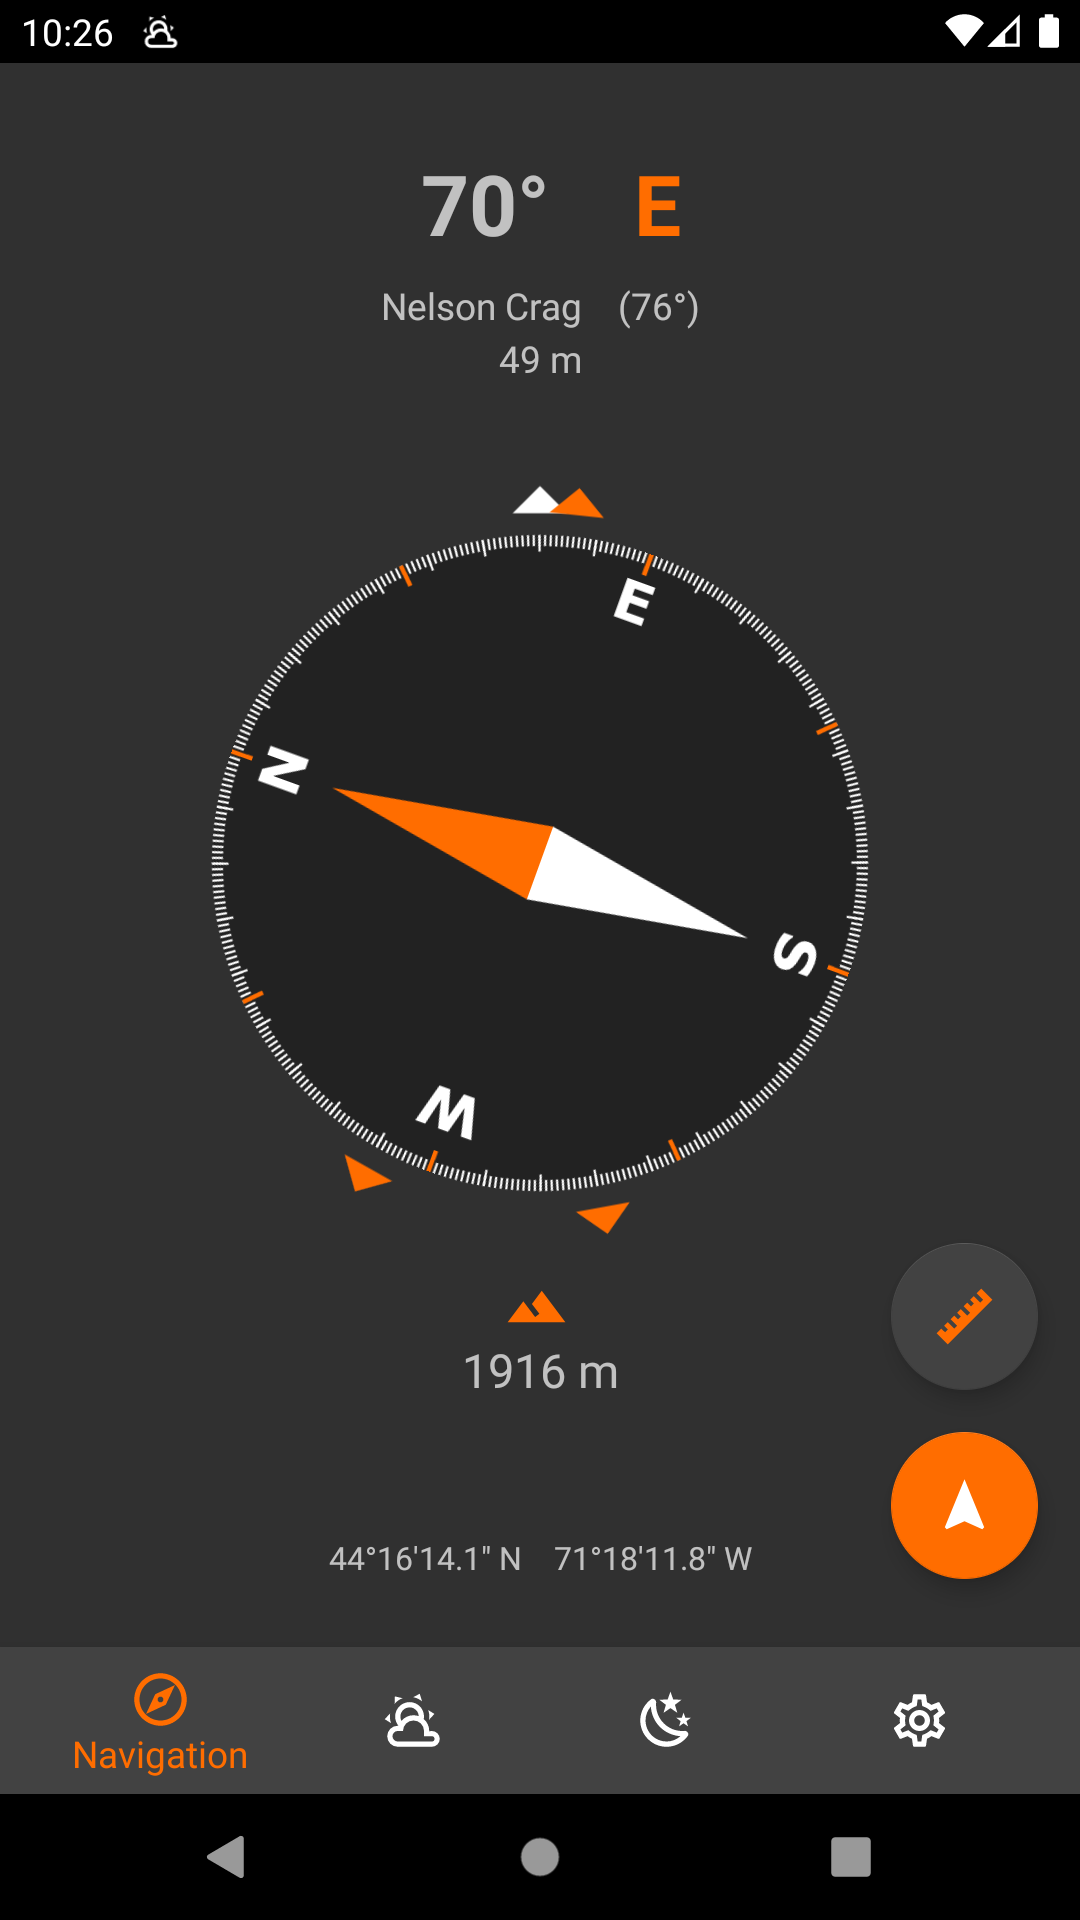
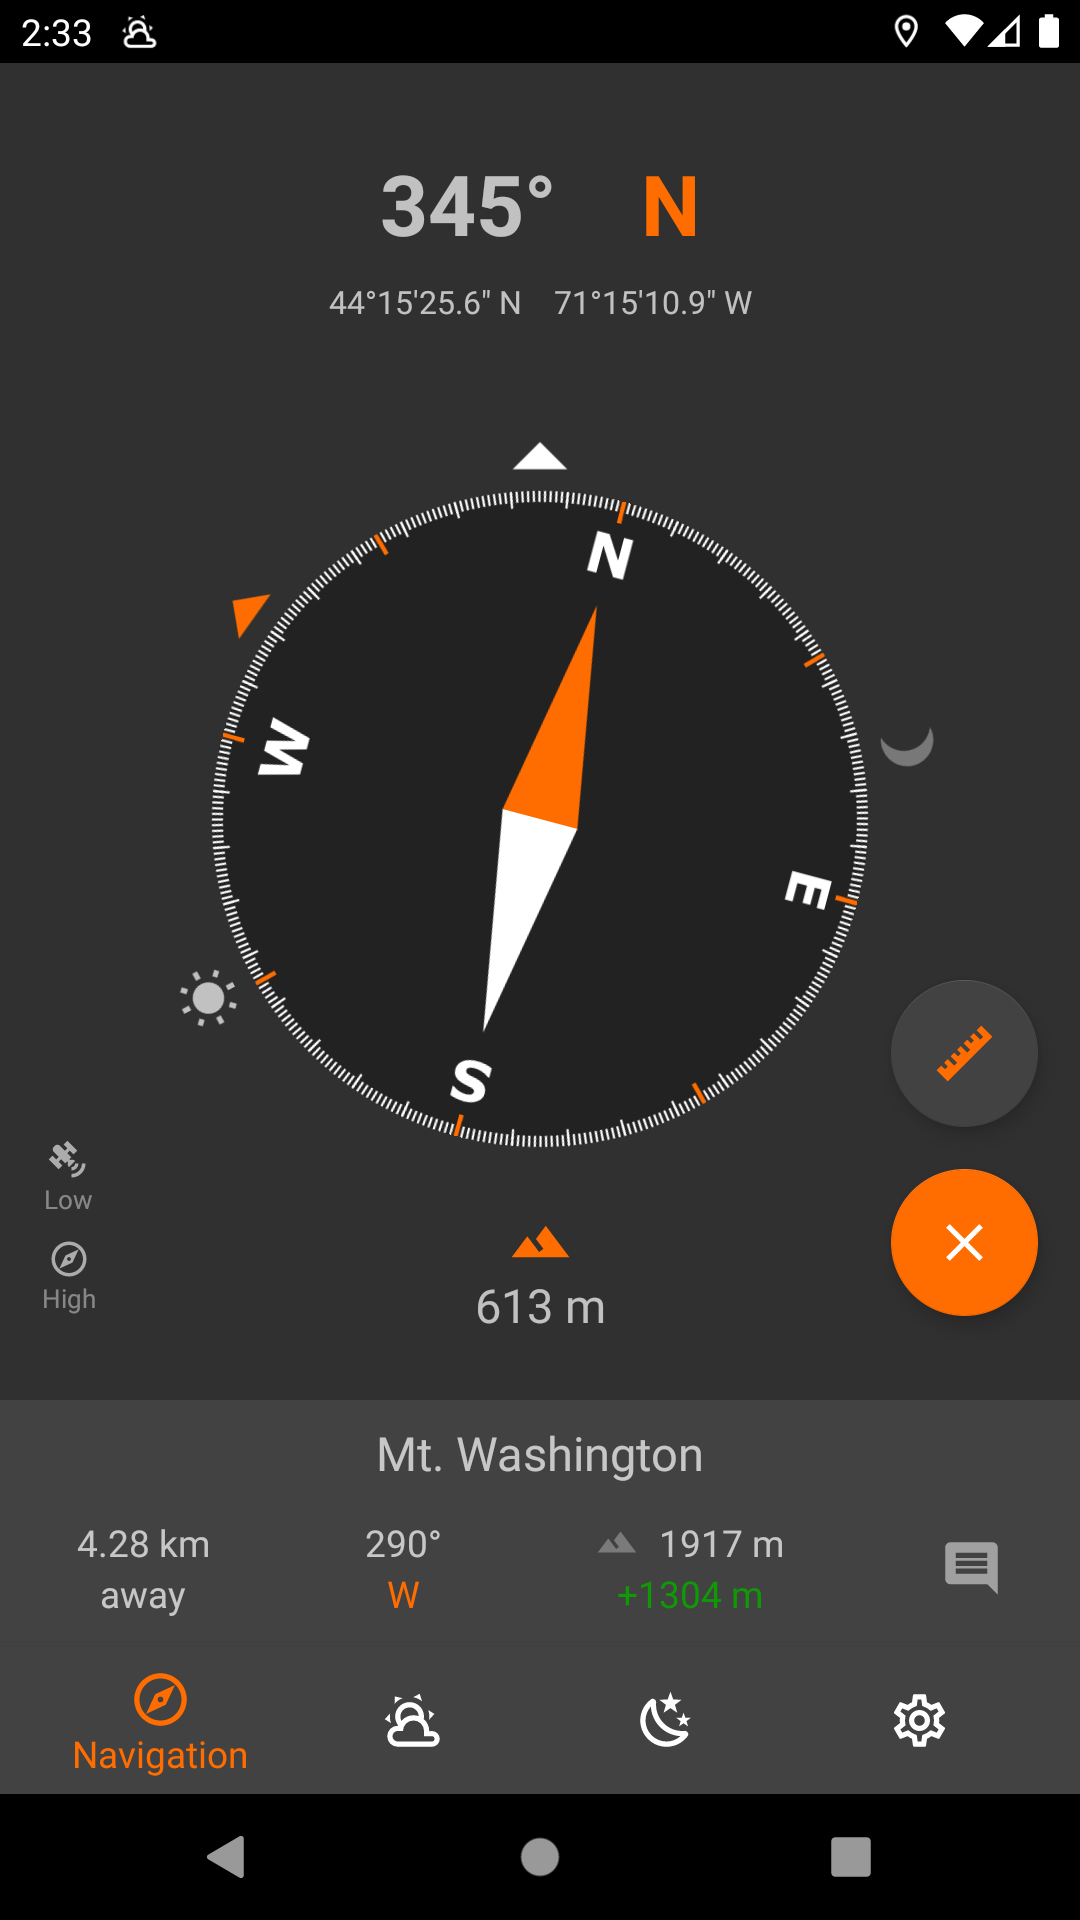
Add updated screenshot

diff --git a/app/src/main/java/com/kylecorry/trail_sense/navigation/ui/NavigationViewModel.kt b/app/src/main/java/com/kylecorry/trail_sense/navigation/ui/NavigationViewModel.kt
@@ -228,7 +228,7 @@ class NavigationViewModel(
     val beaconElevationDiffColor: Int
         get() {
             val elevation = visibleBeacon?.elevation ?: 0f
-            val diff = elevation - gps.altitude
+            val diff = elevation - altimeter.altitude
             return when {
                 diff >= 0 -> {
                     R.color.positive
@@ -242,7 +242,7 @@ class NavigationViewModel(
     val beaconElevationDiff: String
         get() {
             val elevation = visibleBeacon?.elevation ?: 0f
-            val diff = elevation - gps.altitude
+            val diff = elevation - altimeter.altitude
             return if (distanceUnits == UserPreferences.DistanceUnits.Meters) {
                 "${if (diff.roundToInt() > 0) "+" else ""}${diff.roundToInt()} m"
             } else {
